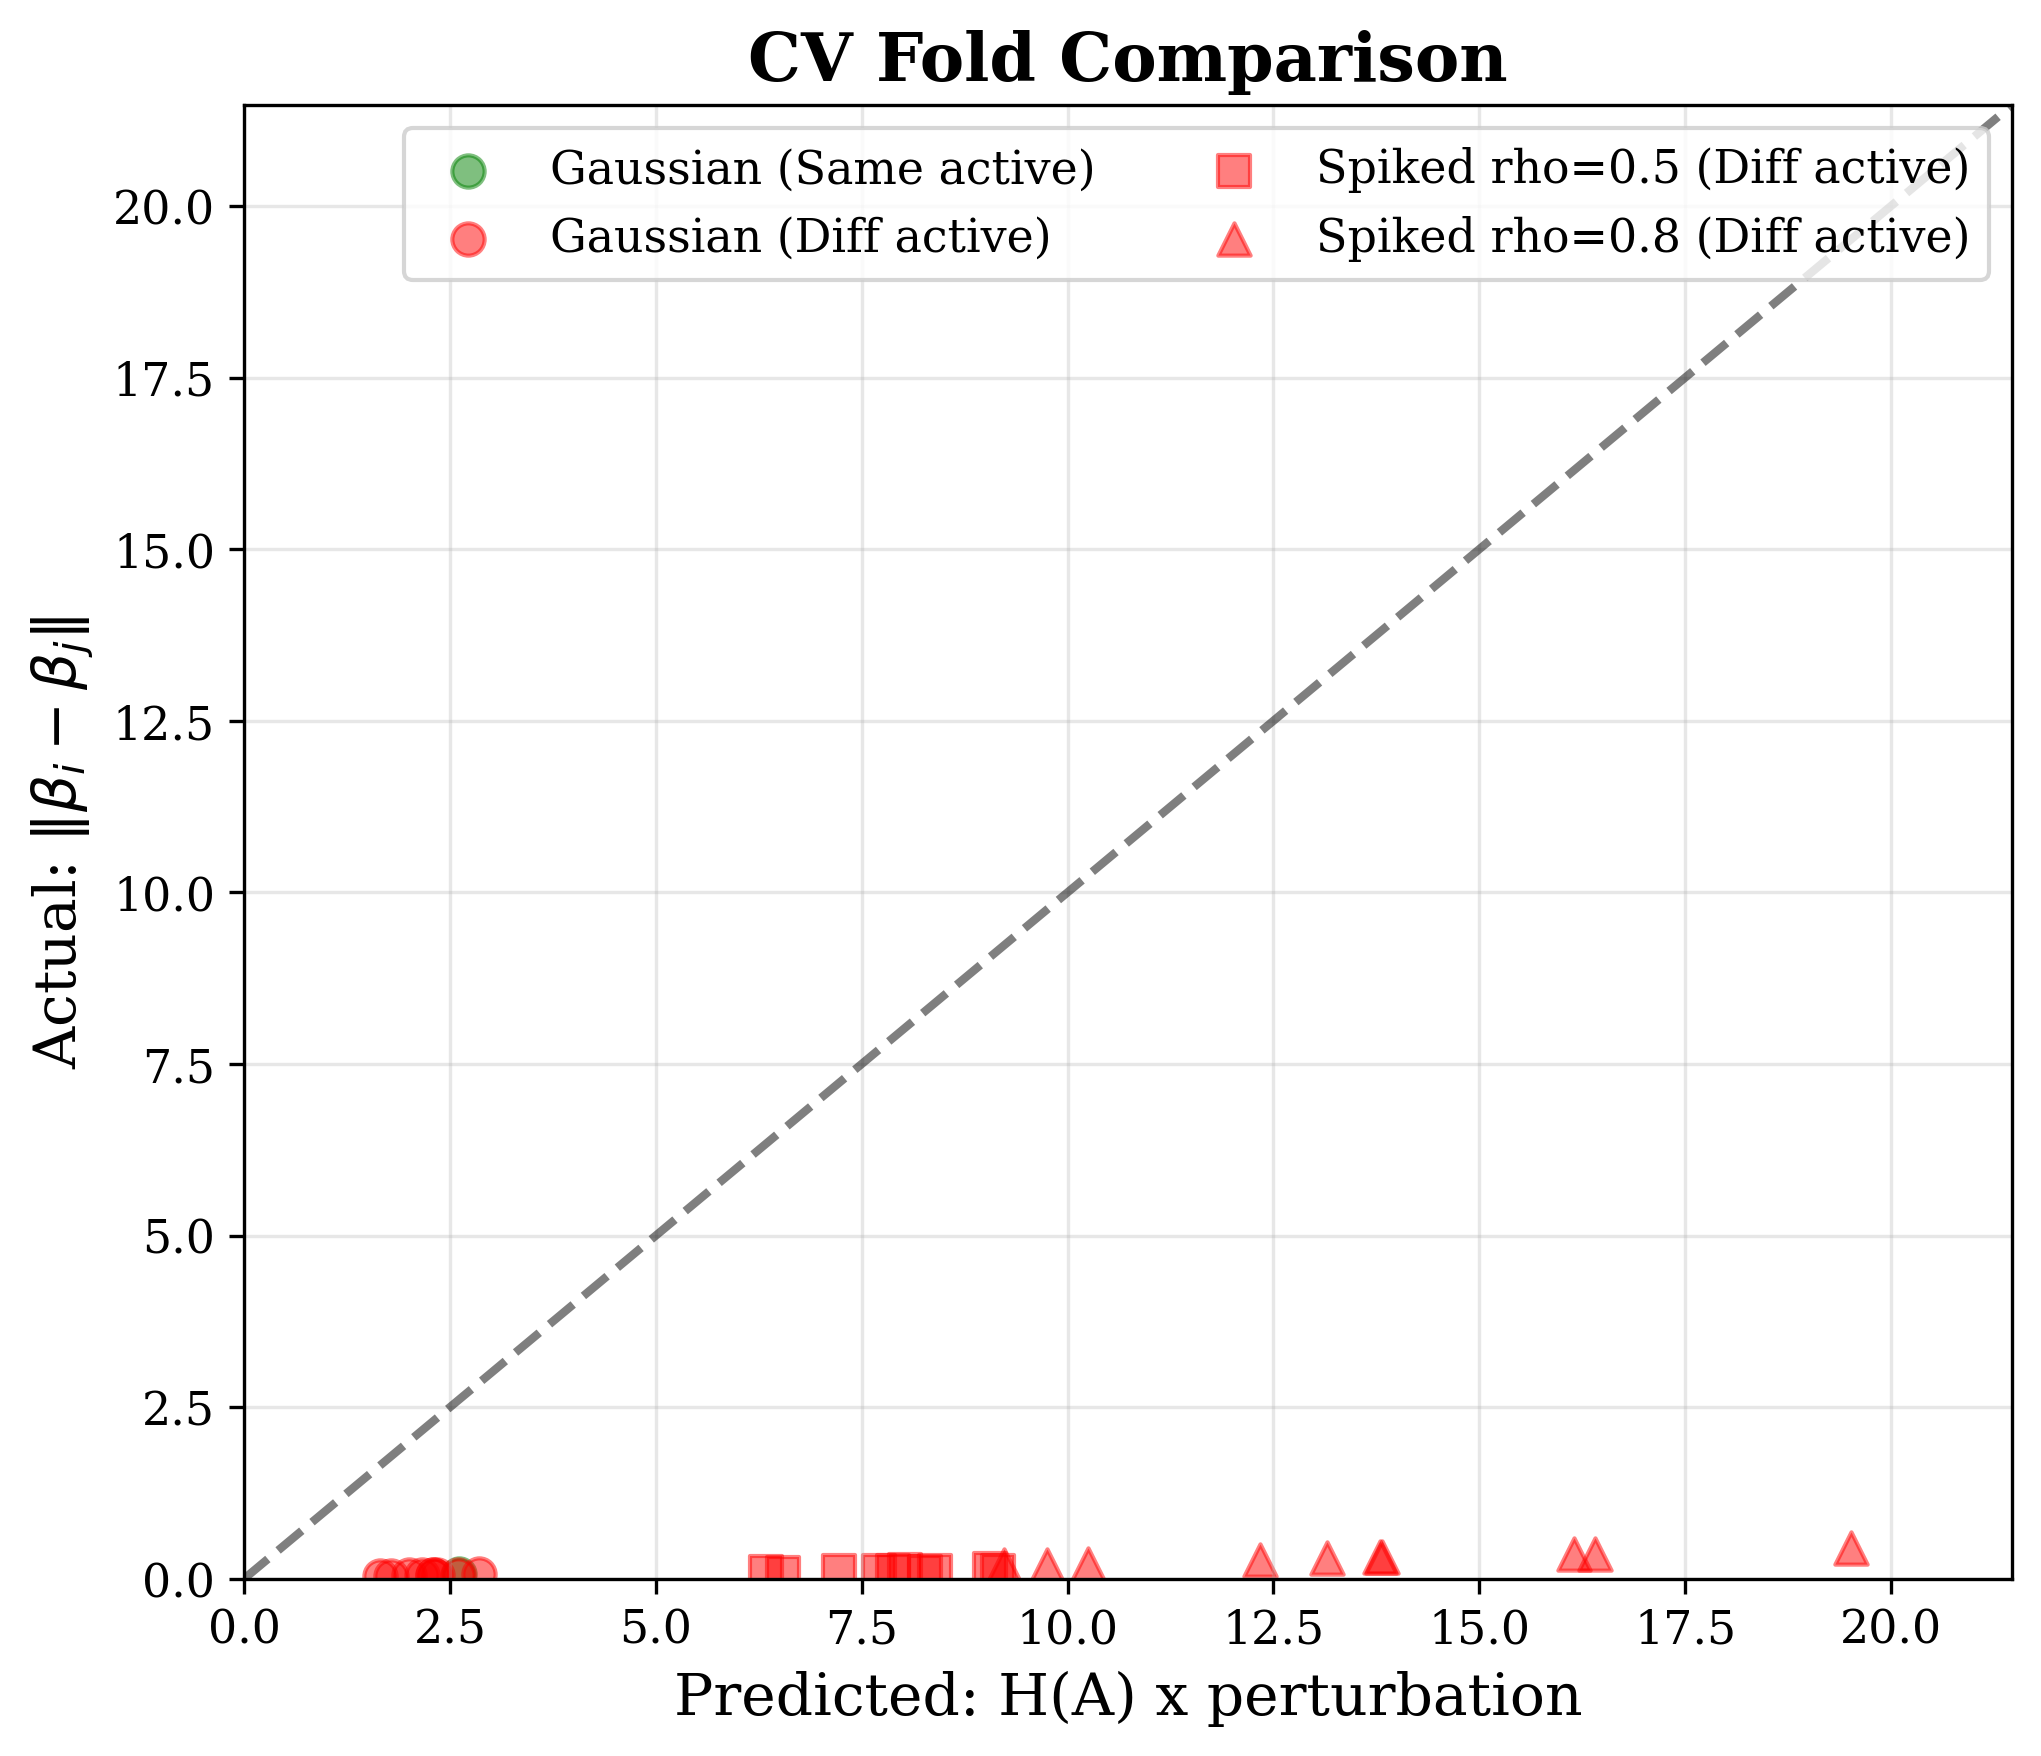
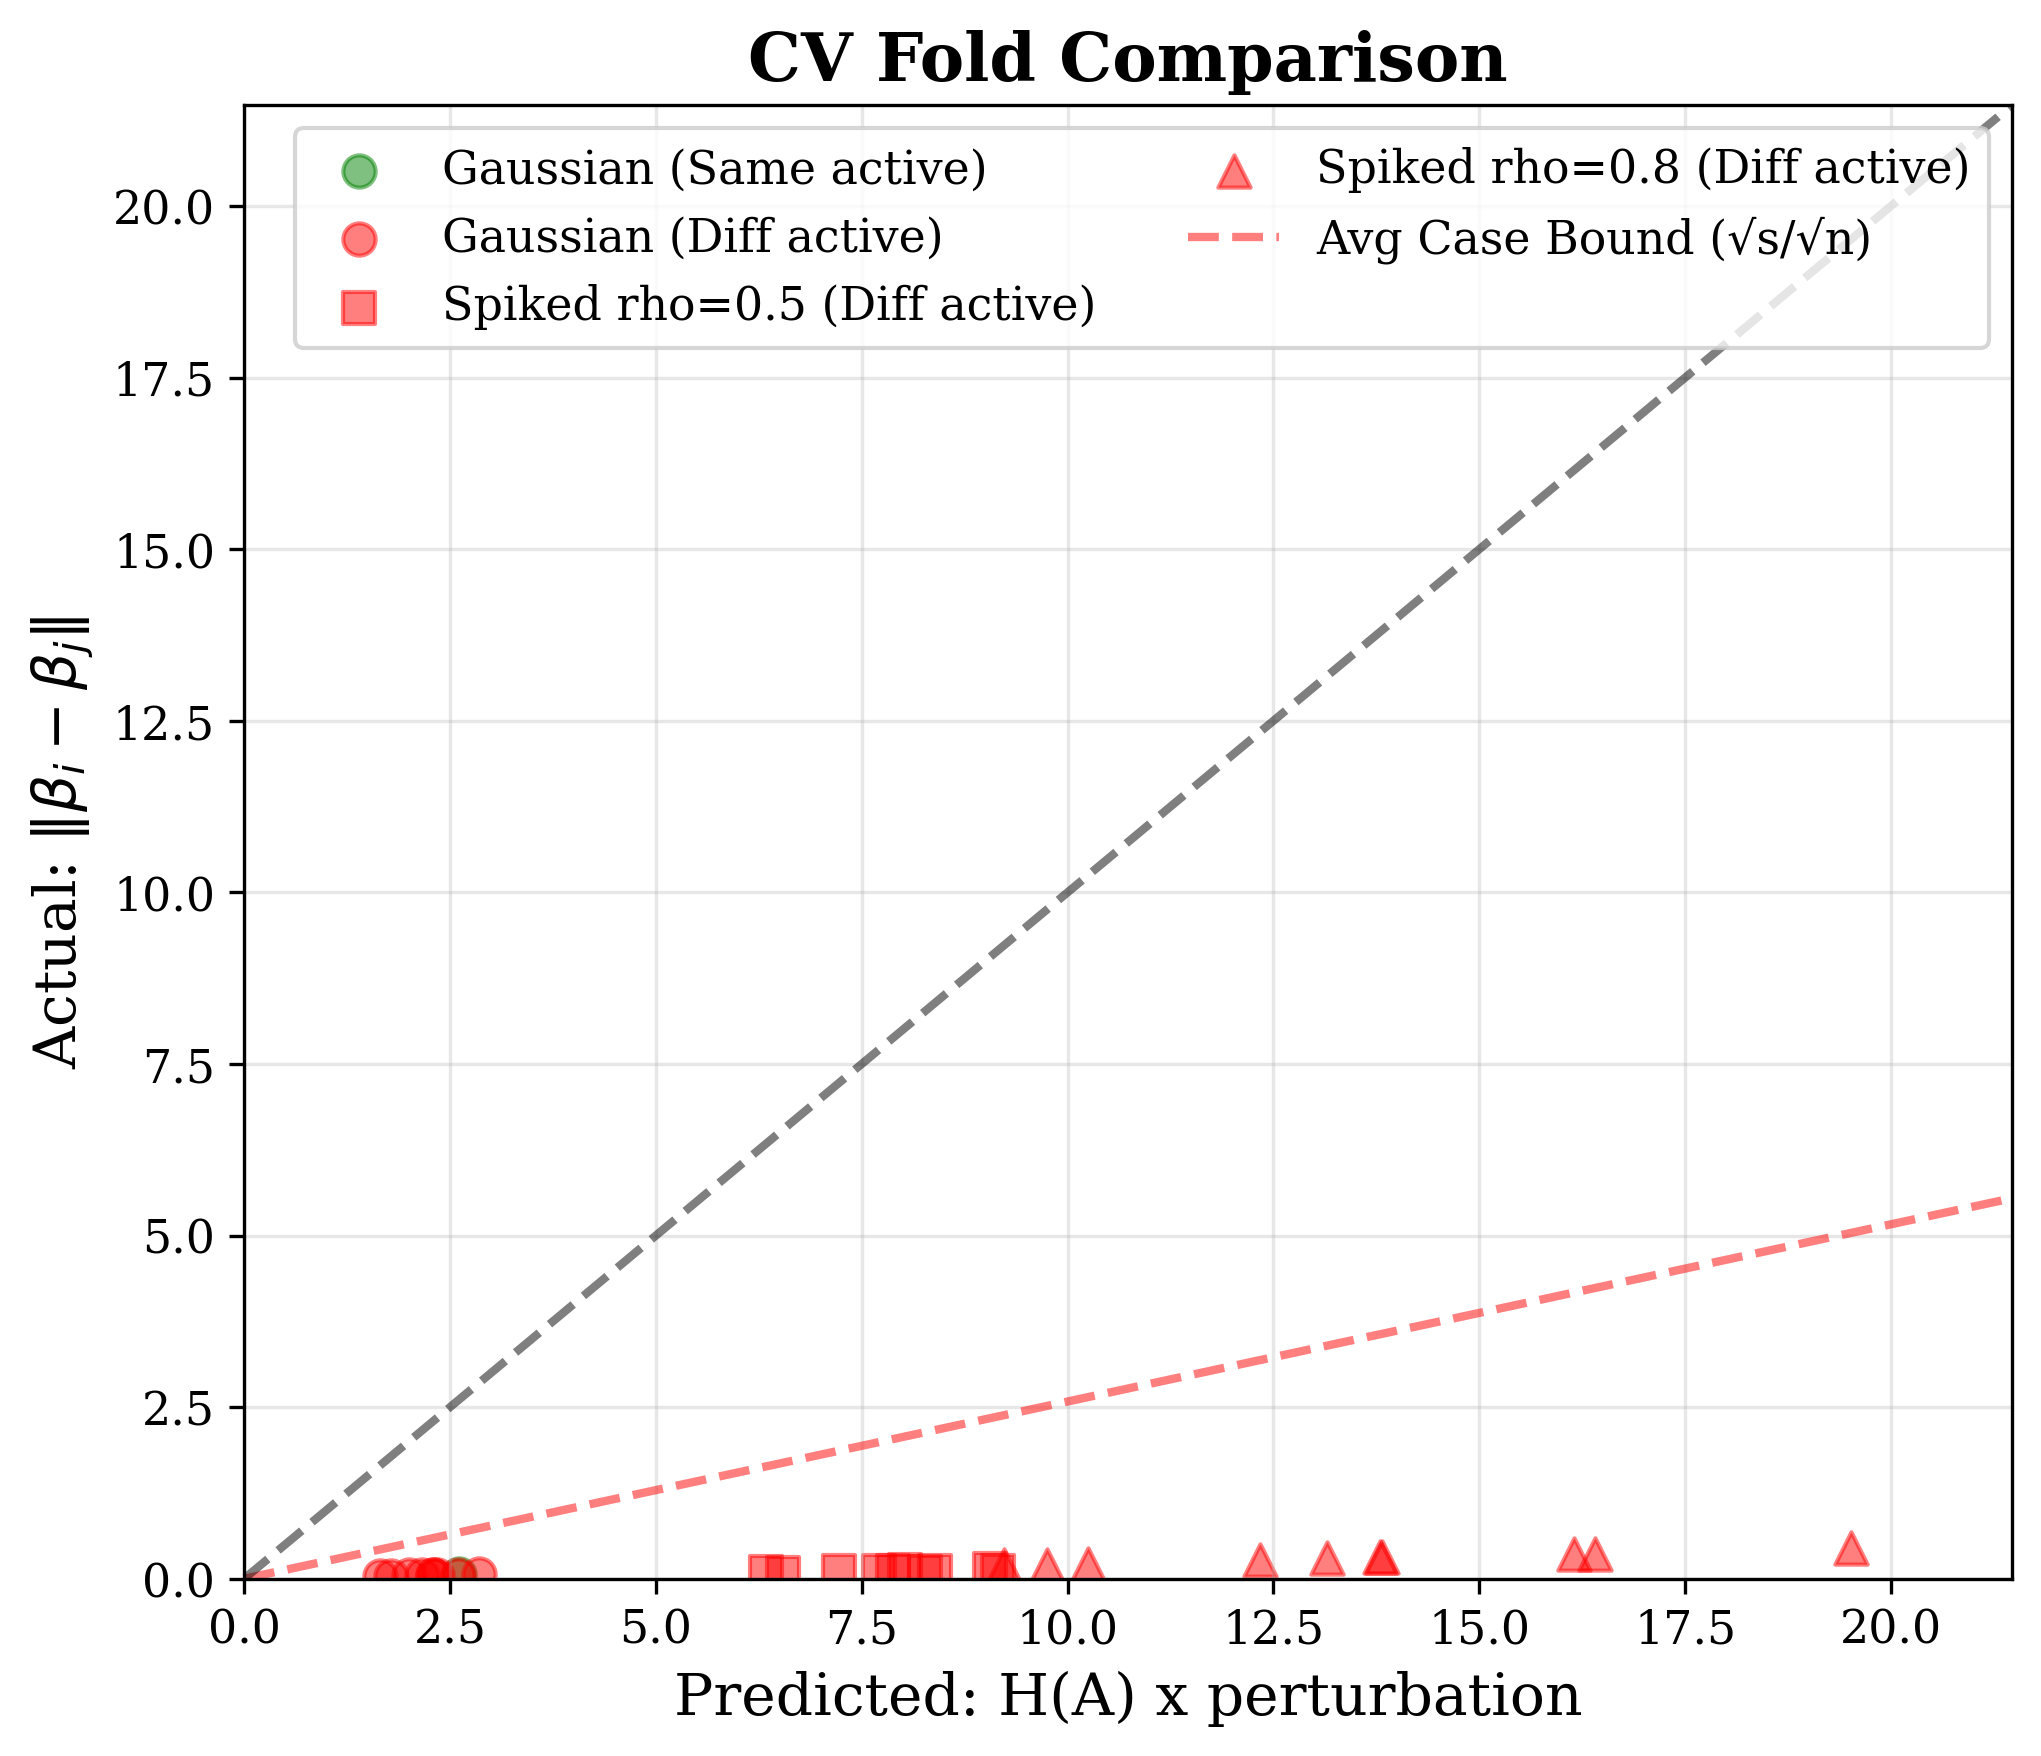
cleanup of exp 3, 6

diff --git a/experiments/03_ista_trajectory_cone_containment.py b/experiments/03_ista_trajectory_cone_containment.py
@@ -136,7 +136,8 @@ def plot_trajectory_analysis(results_dict, true_sparsity):
     # Plot cone ratio over time
     ax1 = fig.add_subplot(gs[0, :])
     for name, res in results_dict.items():
-        ax1.semilogy(res['cone_ratios'], label=name, color=color_map[name], 
+        iterations = range(1, len(res['cone_ratios']))
+        ax1.semilogy(iterations, res['cone_ratios'][1:], label=name, color=color_map[name], 
                     alpha=0.7, linewidth=2, linestyle='-' if '(RIP)' in name else '--')
     
     ax1.axhline(1.0, color='black', linestyle=':', linewidth=2, 
@@ -146,7 +147,7 @@ def plot_trajectory_analysis(results_dict, true_sparsity):
     
     ax1.set_xlabel('Iteration k')
     ax1.set_ylabel('Cone Ratio: $\\|\\Delta_{\\hat{\\mathcal{A}}^c}\\|_1 / \\|\\Delta_{\\hat{\\mathcal{A}}}\\|_1$')
-    ax1.set_title('Trajectory Cone Containment: Do ISTA iterates stay in $\\mathcal{C}_\\alpha(\\hat{\\mathcal{A}})$?')
+    ax1.set_title('Trajectory Cone Containment')
     ax1.legend(loc='upper right', ncol=2, bbox_to_anchor=(1, 1))
     ax1.grid(True, alpha=0.3)
     ax1.set_ylim([1e-6, 1e2])
@@ -155,7 +156,8 @@ def plot_trajectory_analysis(results_dict, true_sparsity):
     ax2 = fig.add_subplot(gs[1, 0])
     
     for name, res in results_dict.items():
-        ax2.plot(res['active_set_sizes'], color=color_map[name], 
+        iterations = range(1, len(res['active_set_sizes']))
+        ax2.plot(iterations, res['active_set_sizes'][1:], color=color_map[name], 
                 alpha=0.7, linewidth=2)
     
     # True sparsity line
@@ -172,7 +174,8 @@ def plot_trajectory_analysis(results_dict, true_sparsity):
     ax3 = fig.add_subplot(gs[1, 1])
     
     for name, res in results_dict.items():
-        ax3.plot(res['active_set_jaccard'], color=color_map[name],
+        iterations = range(1, len(res['active_set_jaccard']))
+        ax3.plot(iterations, res['active_set_jaccard'][1:], color=color_map[name],
                 alpha=0.7, linewidth=2)
     
     ax3.set_xlabel('Iteration k')
@@ -195,9 +198,9 @@ def main():
         
         # Non-RIP Designs
         ('Spiked ρ=0.3 (Non-RIP)', DesignFactory.spiked(N, D, S, rho=0.3)),
-        ('Spiked ρ=0.9 (Non-RIP)', DesignFactory.spiked(N, D, S, rho=0.9)),
+        ('Spiked ρ=0.7 (Non-RIP)', DesignFactory.spiked(N, D, S, rho=0.7)),
         ('AR1 ρ=0.5 (Non-RIP)', DesignFactory.ar1_stochastic(N, D, S, rho=0.5)),
-        ('AR1 ρ=0.9 (Non-RIP)', DesignFactory.ar1_stochastic(N, D, S, rho=0.9)),
+        ('AR1 ρ=0.7 (Non-RIP)', DesignFactory.ar1_stochastic(N, D, S, rho=0.7)),
         ('PowerLaw decay=1.0 (Non-RIP)', DesignFactory.power_law(N, D, S, decay=1.0)),
     ]
     

diff --git a/experiments/06_selection_stability_analysis.py b/experiments/06_selection_stability_analysis.py
@@ -562,7 +562,8 @@ def part_3_real_data_validation():
     
     max_val = max(df_cv['bound'].max(), df_cv['actual_diff'].max()) * 1.1
     ax.plot([0, max_val], [0, max_val], 'k--', linewidth=2, alpha=0.5, label='y=x (tight)')
-    
+    s = len(active_full)
+    ax.plot([0, max_val], [0, np.sqrt(s) * max_val/np.sqrt(n)], 'r--', linewidth=2, alpha=0.5, label='Avg Case Bound (√s/√n)')
     ax.set_xlabel('Predicted Bound')
     ax.set_ylabel('Actual $\\|\\beta_i - \\beta_j\\|$')
     ax.set_title('CV Fold Stability', fontweight='bold')
@@ -578,6 +579,8 @@ def part_3_real_data_validation():
     
     max_val = max(df_boot['bound'].max(), df_boot['actual'].max()) * 1.1
     ax.plot([0, max_val], [0, max_val], 'k--', linewidth=2, alpha=0.5, label='y=x (tight)')
+    s = len(active_full)
+    ax.plot([0, max_val], [0, np.sqrt(s) * max_val/np.sqrt(n)], 'r--', linewidth=2, alpha=0.5, label='Avg Case Bound (√s/√n)')
     ax.set_xlabel('Predicted Bound')
     ax.set_ylabel('Actual $\\|\\beta_i - \\beta_j\\|$')
     ax.set_title('Bootstrap Stability', fontweight='bold')

diff --git a/src/hoffman/utils/viz.py b/src/hoffman/utils/viz.py
@@ -5,12 +5,12 @@ def set_plotting_style():
     plt.rcParams.update({
         'text.usetex': False,
         'font.family': 'serif',
-        'font.size': 12,
-        'axes.labelsize': 14,
-        'axes.titlesize': 16,
-        'xtick.labelsize': 11,
-        'ytick.labelsize': 11,
-        'legend.fontsize': 11,
+        'font.size': 14,
+        'axes.labelsize': 16,
+        'axes.titlesize': 18,
+        'xtick.labelsize': 14,
+        'ytick.labelsize': 14,
+        'legend.fontsize': 14,
         'figure.figsize': (10, 7),
         'axes.grid': True,
         'grid.alpha': 0.3,
